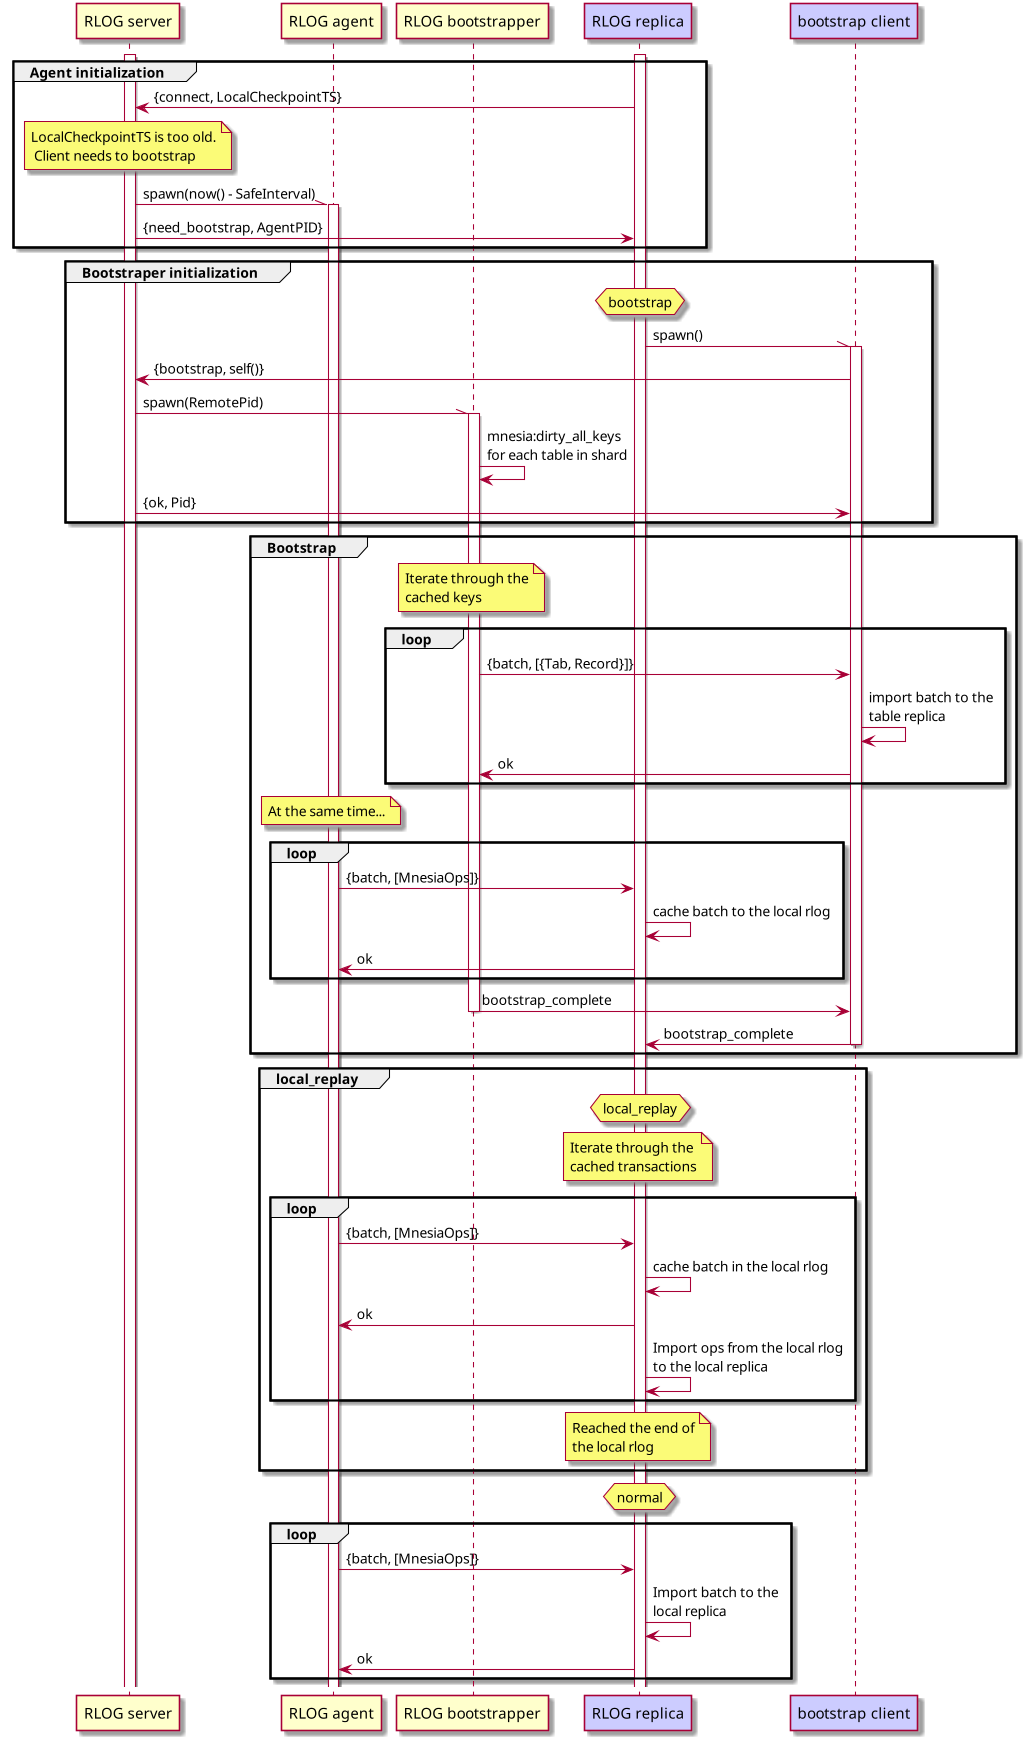
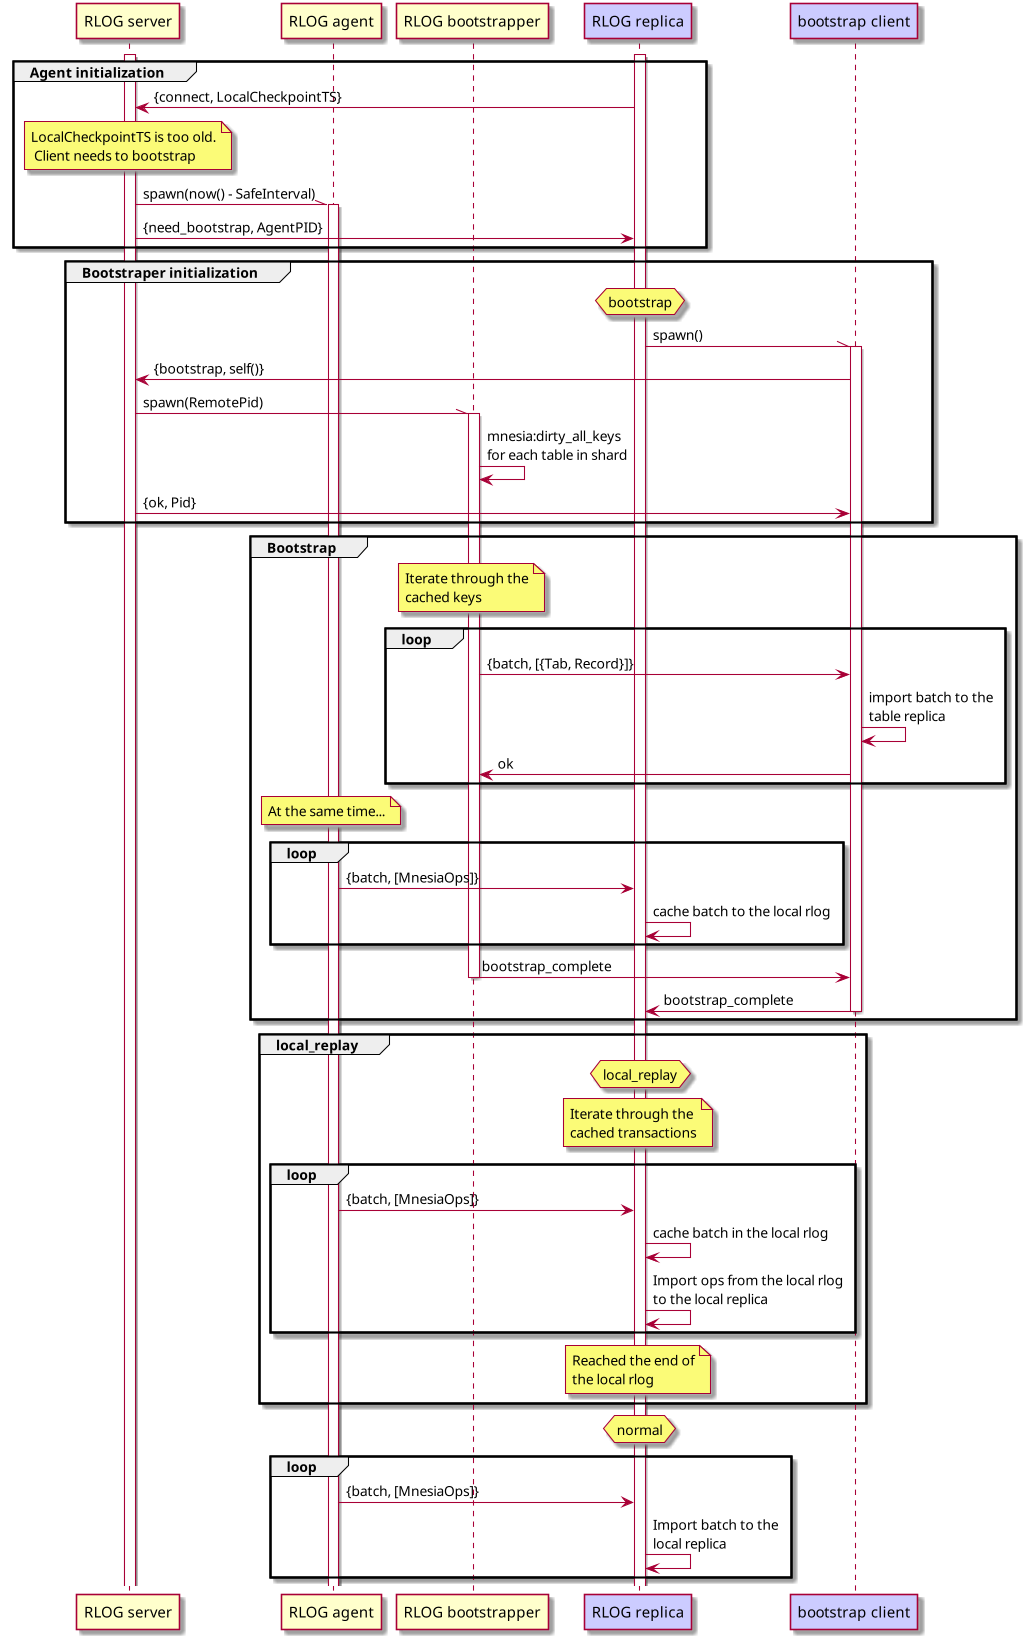
Clarify bootstrapping process

diff --git a/active/0004-async-mnesia-change-log-replication.md b/active/0004-async-mnesia-change-log-replication.md
@@ -151,20 +151,14 @@ In some cases it also creates a bootstrap client process and manages it.
 
 ![Replicant FSM](0004-assets/replicant-fsm.png)
 
-#### RLOG bootstrapper
+#### RLOG bootstrapper (client/server)
 
-RLOG bootstrapper is a simple `gen_server` process that runs on the core node.
-It is spawned by RLOG server when the replicant node wishes to be bootstrapped.
-RLOG bootstrapper runs `mnesia:dirty_all_keys` operation on the tables within the shard, and then iterates through the cached keys.
+RLOG bootstrapper is a temporary `gen_server` process that runs on both core and replicant nodes during replica initialization.
+RLOG bootstrapper server runs `mnesia:dirty_all_keys` operation on the tables within the shard, and then iterates through the cached keys.
 For each table and key pair it performs `mnesia:dirty_read` operation and caches the result.
 If the value for the key is missing, such record is ignored.
-Records are sent to the remote process in batches.
-
-#### bootstrap client
-
-Bootstrap client is a simple `gen_server` process that runs on the replicant node.
-It is spawned by the RLOG replica process when it detects that bootstrapping is needed.
-This process receives batches from the remote RLOG bootstrapper process and applies them to the local table replicas.
+Records are sent to the remote bootstrapper client process in batches.
+Bootstrapper client applies batches to the local table replica using dirty operations.
 
 ### Bootstrapping Empty Nodes
 
